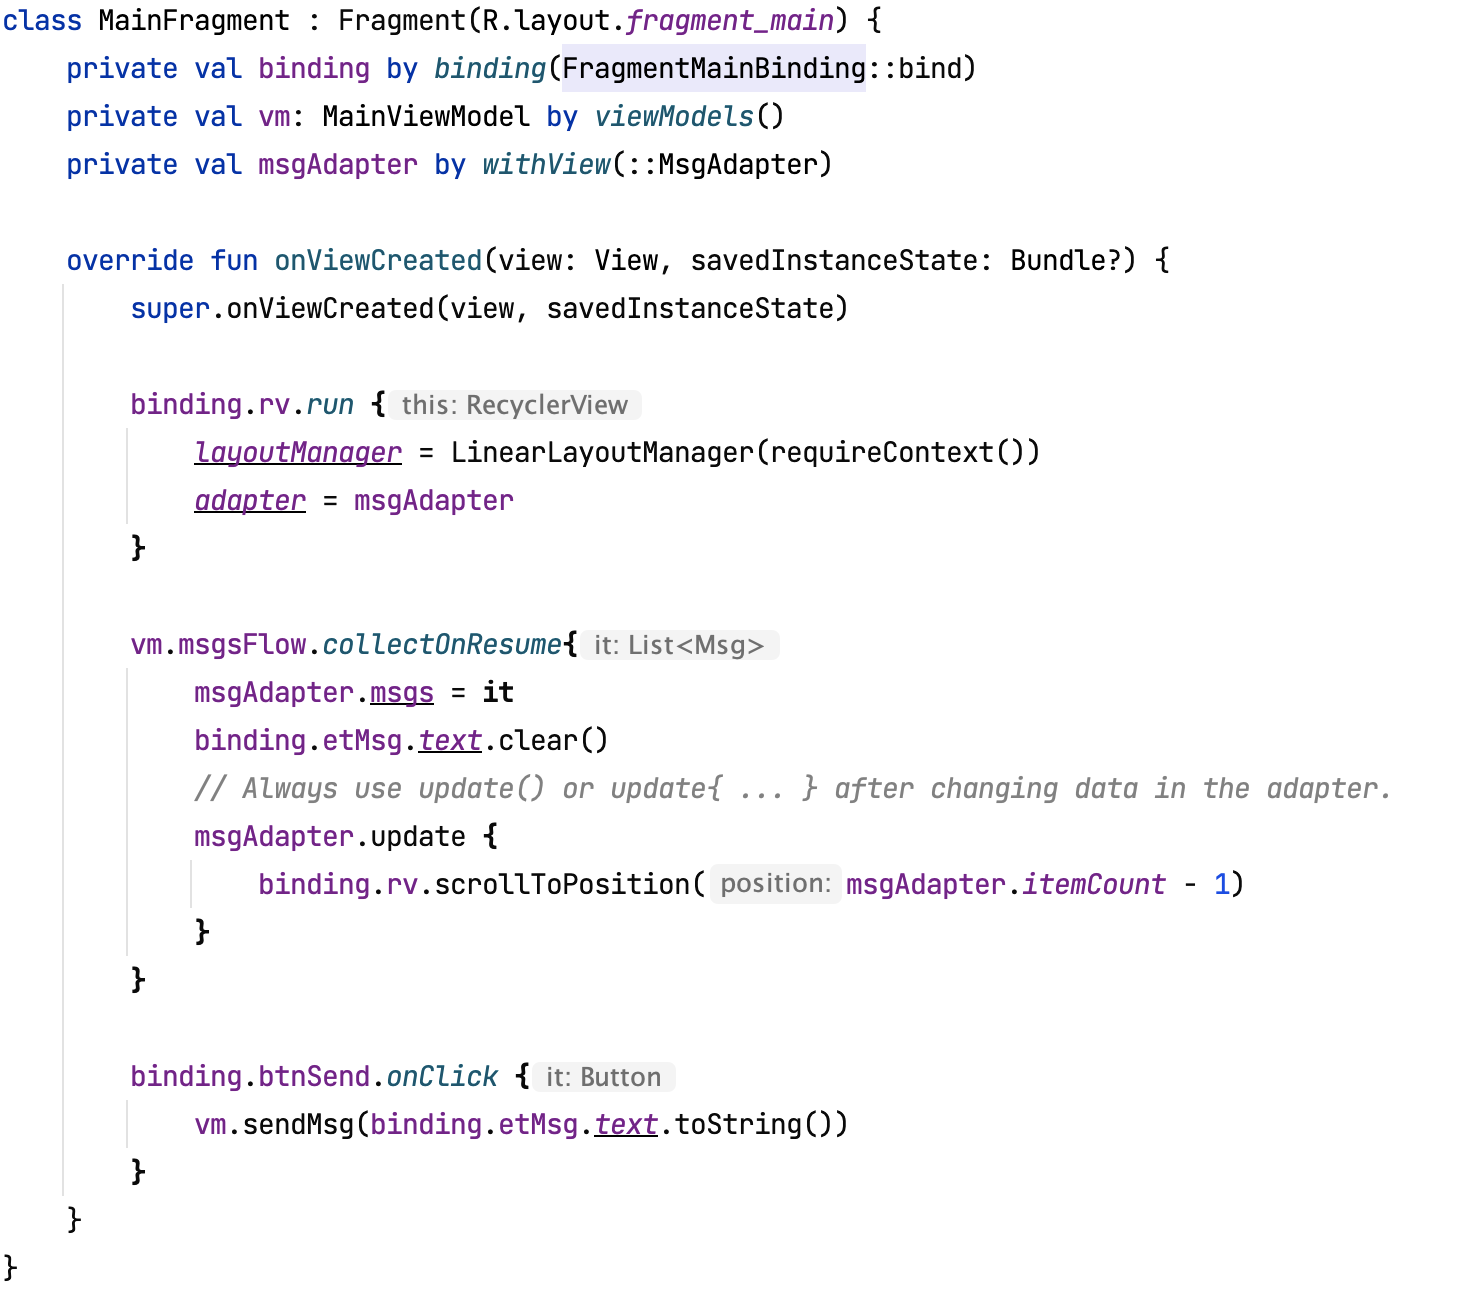
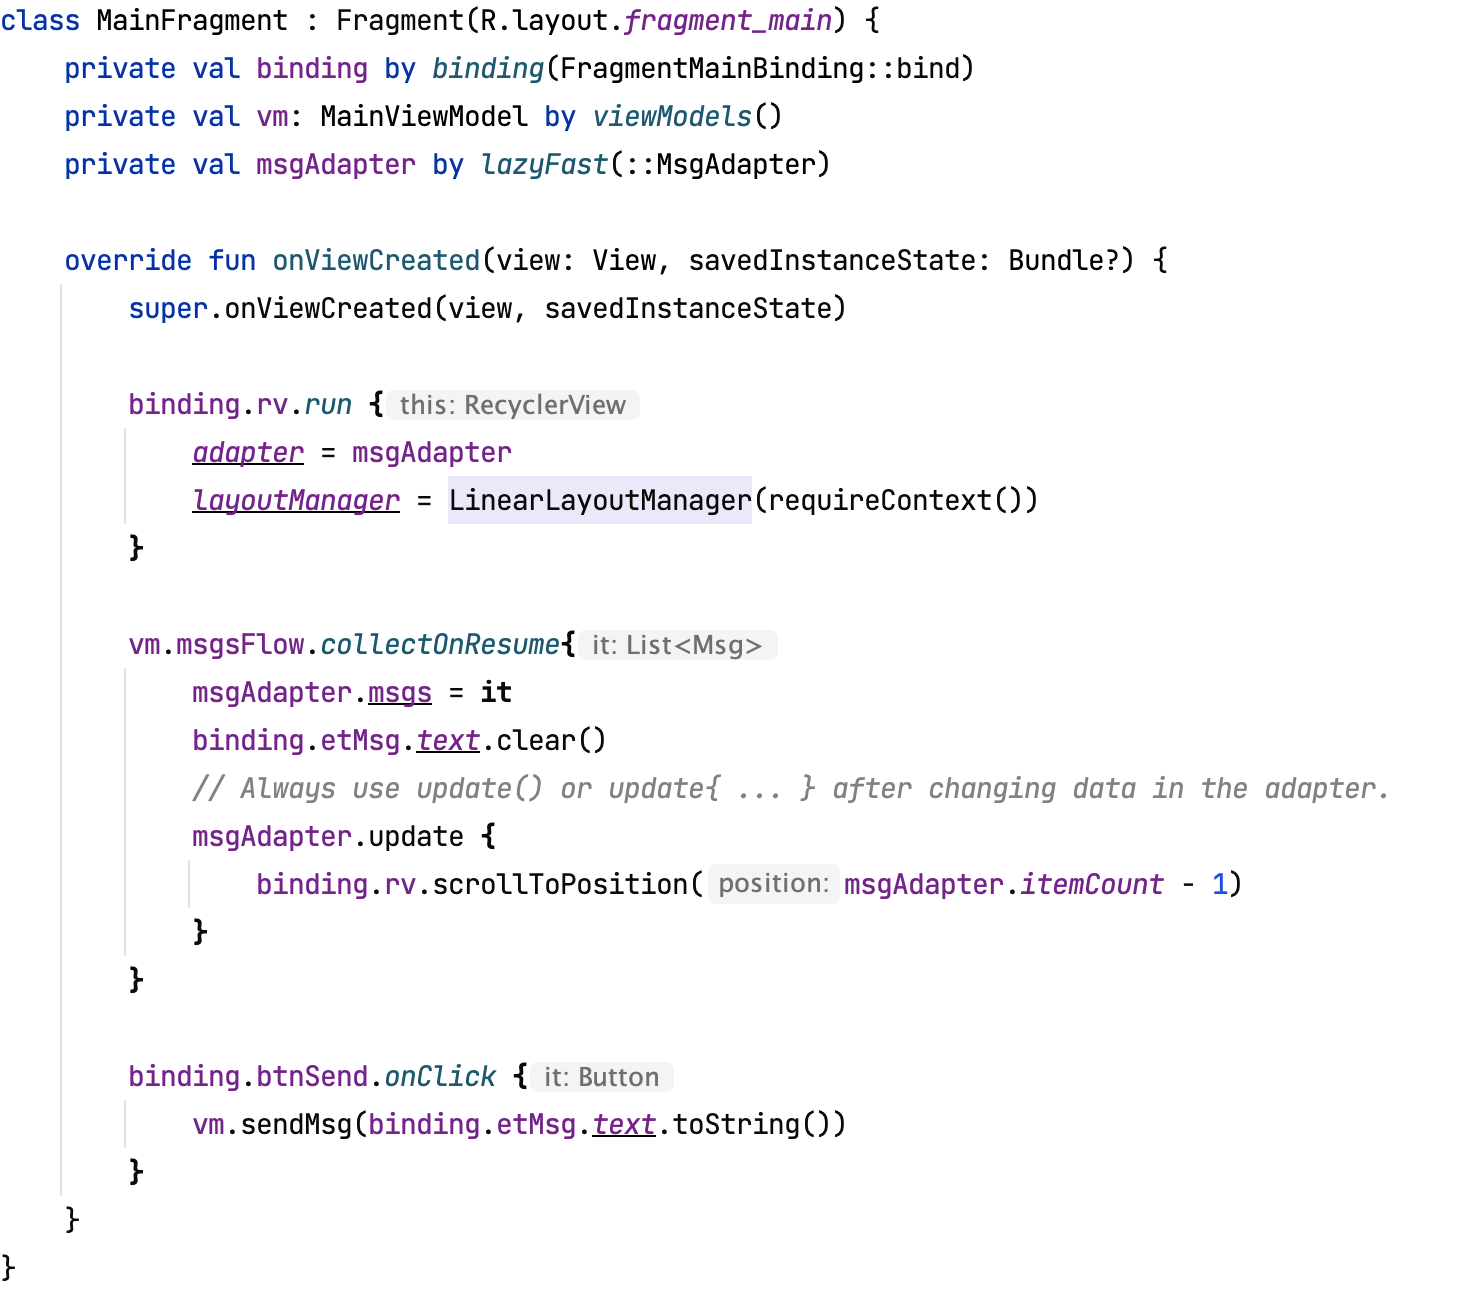
+

diff --git a/content/docs/android/util-view/_index.md b/content/docs/android/util-view/_index.md
@@ -66,25 +66,6 @@ override fun onViewCreated(view: View, savedInstanceState: Bundle?) {
 Sets a `View.OnClickListener` with a more precise `View`.
 {{< codeImg onClick.png >}}
 
-## withView
-Delegates a value in `ComponentActivity`/`Fragment`.   
-
-When in `ComponentActivity`, it's initialized after `onCreate` or when you call its `getter` before that.  
-
-When in `Fragment`, it is initialized after `onStart` or when you call its `getter` before that, 
-and destroyed when `onDestroyView`.
-
-Usage sample:
-```kotlin
-class MainFragment : Fragment(){
-    val adapter by withView{ MyAdapter(requireContext()) }
-}
-```
-It could be also `mutable`. 
-```kotlin
-var x by withView{ ... }
-```
-
 # KRecyclerViewAdapter
 ## Core usage
 {{< mp4 src=recyclerview width=250 >}} 
@@ -100,7 +81,8 @@ The reply which appears one second later is out of simulation rather than bad pe
 
 `MainViewModel` with the simulated initial data is not displayed.
 
-The function `binding` is from {{< newTab "another library" "https://dylancaicoding.github.io/ViewBindingKTX/#/en/" >}}.
+The function `binding` is from {{< newTab "another library" "https://dylancaicoding.github.io/ViewBindingKTX/#/en/" >}}, 
+and `lazyFast` is from my {{< newTab "kt-util" "../../multiplatform/kt-util/html/-kt-util/pers.shawxingkwok.ktutil/lazy-fast.html" >}}. 
 
 `KRecyclerViewAdapter` is not bound to `KFragment` but usable in general `Activity`/`Fragment`.
 And you could replace `withView`, `collectOnResume`, and `onClick` in above display.
@@ -110,7 +92,7 @@ And you could replace `withView`, `collectOnResume`, and `onClick` in above disp
 <br>
 {{< codeImg recyclerview_update_src.png >}}
 
-These functions `notify...`  are replaced with `update` now.
+These functions `notify...` are replaced with `update` now.
 {{< hint info >}}
 `update` may be called too frequently, which makes some previous `onFinish` omitted.
 {{< /hint >}}
